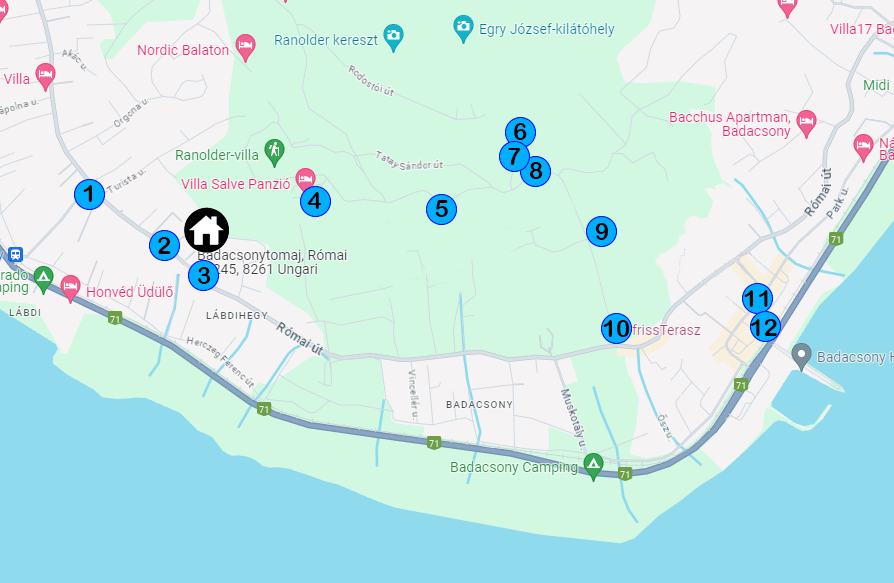
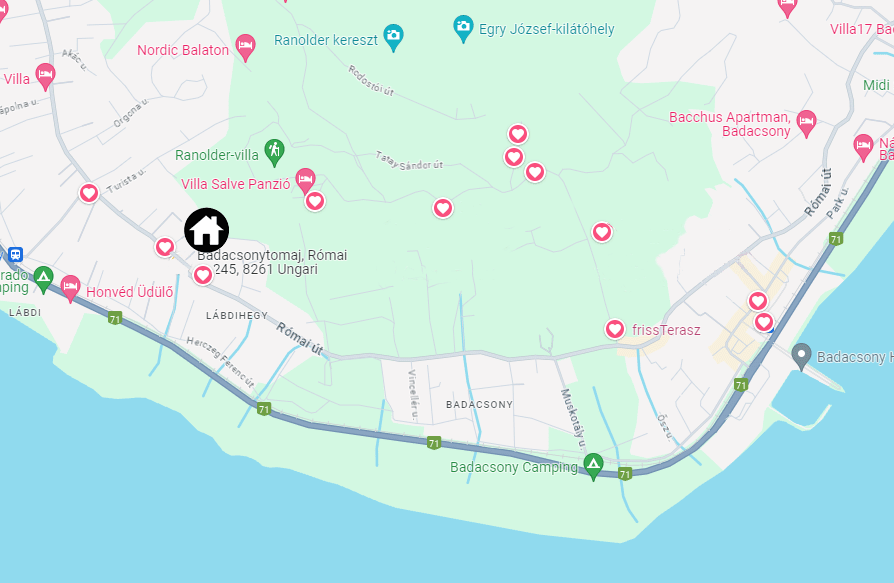
test of interactive map picture

diff --git a/src/views/OurFavourites.vue b/src/views/OurFavourites.vue
@@ -4,60 +4,72 @@
       <h3>{{ $t('favourites.introTitle') }}</h3>
       <p>{{ $t('favourites.introText') }}</p>
     </section>
-    <section>
-      <img src="/FAVMAP.png" alt="Map of Favourite Spots" class="favourites-map-image">
+    <section class="map-section">
+      <div class="map-container">
+        <img src="/FAVMAP.png" alt="Map of Favourite Spots" class="favourites-map-image">
+        <div class="map-number" @click="showInfo(1)">1</div>
+        <div class="map-number" @click="showInfo(2)">2</div>
+        <div class="map-number" @click="showInfo(3)">3</div>
+        <div class="map-number" @click="showInfo(4)">4</div>
+        <div class="map-number" @click="showInfo(5)">5</div>
+        <div class="map-number" @click="showInfo(6)">6</div>
+        <div class="map-number" @click="showInfo(7)">7</div>
+        <div class="map-number" @click="showInfo(8)">8</div>
+        <div class="map-number" @click="showInfo(9)">9</div>
+        <div class="map-number" @click="showInfo(10)">10</div>
+        <div class="map-number" @click="showInfo(11)">11</div>
+        <div class="map-number" @click="showInfo(12)">12</div>
+      </div>
     </section>
     <section class="list-section">
-      <ul class="favourites-list">
-        <li>
-          <h3>{{ $t('favourites.bar1Title') }}</h3>
-          <p>{{ $t('favourites.bar1Description') }}</p>
-        </li>
-        <li>
-          <h3>{{ $t('favourites.bar2Title') }}</h3>
-          <p>{{ $t('favourites.bar2Description') }}</p>
-        </li>
-        <li>
-          <h3>{{ $t('favourites.bar3Title') }}</h3>
-          <p>{{ $t('favourites.bar3Description') }}</p>
-        </li>
-        <li>
-          <h3>{{ $t('favourites.bar4Title') }}</h3>
-          <p>{{ $t('favourites.bar4Description') }}</p>
-        </li>
-        <li>
-          <h3>{{ $t('favourites.bar5Title') }}</h3>
-          <p>{{ $t('favourites.bar5Description') }}</p>
-        </li>
-        <li>
-          <h3>{{ $t('favourites.bar6Title') }}</h3>
-          <p>{{ $t('favourites.bar6Description') }}</p>
-        </li>
-        <li>
-          <h3>{{ $t('favourites.bar7Title') }}</h3>
-          <p>{{ $t('favourites.bar7Description') }}</p>
-        </li>
-        <li>
-          <h3>{{ $t('favourites.bar8Title') }}</h3>
-          <p>{{ $t('favourites.bar8Description') }}</p>
-        </li>
-        <li>
-          <h3>{{ $t('favourites.bar9Title') }}</h3>
-          <p>{{ $t('favourites.bar9Description') }}</p>
-        </li>
-        <li>
-          <h3>{{ $t('favourites.bar10Title') }}</h3>
-          <p>{{ $t('favourites.bar10Description') }}</p>
-        </li>
-        <li>
-          <h3>{{ $t('favourites.bar11Title') }}</h3>
-          <p>{{ $t('favourites.bar11Description') }}</p>
-        </li>
-        <li>
-          <h3>{{ $t('favourites.bar12Title') }}</h3>
-          <p>{{ $t('favourites.bar12Description') }}</p>
-        </li>
-      </ul>
+      <div v-if="selectedBar === 1">
+        <h3>{{ $t('favourites.bar1Title') }}</h3>
+        <p>{{ $t('favourites.bar1Description') }}</p>
+      </div>
+      <div v-if="selectedBar === 2">
+        <h3>{{ $t('favourites.bar2Title') }}</h3>
+        <p>{{ $t('favourites.bar2Description') }}</p>
+      </div>
+      <div v-if="selectedBar === 3">
+        <h3>{{ $t('favourites.bar3Title') }}</h3>
+        <p>{{ $t('favourites.bar3Description') }}</p>
+      </div>
+      <div v-if="selectedBar === 4">
+        <h3>{{ $t('favourites.bar4Title') }}</h3>
+        <p>{{ $t('favourites.bar4Description') }}</p>
+      </div>
+      <div v-if="selectedBar === 5">
+        <h3>{{ $t('favourites.bar5Title') }}</h3>
+        <p>{{ $t('favourites.bar5Description') }}</p>
+      </div>
+      <div v-if="selectedBar === 6">
+        <h3>{{ $t('favourites.bar6Title') }}</h3>
+        <p>{{ $t('favourites.bar6Description') }}</p>
+      </div>
+      <div v-if="selectedBar === 7">
+        <h3>{{ $t('favourites.bar7Title') }}</h3>
+        <p>{{ $t('favourites.bar7Description') }}</p>
+      </div>
+      <div v-if="selectedBar === 8">
+        <h3>{{ $t('favourites.bar8Title') }}</h3>
+        <p>{{ $t('favourites.bar8Description') }}</p>
+      </div>
+      <div v-if="selectedBar === 9">
+        <h3>{{ $t('favourites.bar9Title') }}</h3>
+        <p>{{ $t('favourites.bar9Description') }}</p>
+      </div>
+      <div v-if="selectedBar === 10">
+        <h3>{{ $t('favourites.bar10Title') }}</h3>
+        <p>{{ $t('favourites.bar10Description') }}</p>
+      </div>
+      <div v-if="selectedBar === 11">
+        <h3>{{ $t('favourites.bar11Title') }}</h3>
+        <p>{{ $t('favourites.bar11Description') }}</p>
+      </div>
+      <div v-if="selectedBar === 12">
+        <h3>{{ $t('favourites.bar12Title') }}</h3>
+        <p>{{ $t('favourites.bar12Description') }}</p>
+      </div>
     </section>
   </div>
 </template>
@@ -65,10 +77,16 @@
 
 <script>
 export default {
-  name: 'OurFavourites'
-}
+  name: 'OurFavourites',
+  data() {
+    return {
+      selectedBar: null
+    };
+  },
+  methods: {
+    showInfo(barNumber) {
+      this.selectedBar = barNumber;
+    }
+  }
+};
 </script>
-
-<style scoped>
-
-</style>

diff --git a/src/assets/desktop.css b/src/assets/desktop.css
@@ -183,28 +183,116 @@
     .page-heading {
         text-align: center;
     }
+
+    .intro-section,
+    .list-section {
+        margin: 2rem 0;
+        text-align: center;
+    }
+
+    .favourites-map-image {
+        width: 100%;
+        height: auto;
+        display: block;
+        margin: 0 auto;
+    }
+
+    .map-container {
+        position: relative;
+    }
+
+    .map-number {
+        position: absolute;
+        width: 2.3vw;
+        height: 2.3vw;
+        background-color: #49d8dc; /* Solid white background */
+        border-radius: 50%;
+        text-align: center;
+        line-height: 2.3vw;
+        cursor: pointer;
+        font-weight: bold;
+        border: 1px solid #000; /* Optional: Add a border for better visibility */
+        transform: translate(-50%, -50%);
+    }
+
+    .map-number:nth-of-type(1) {
+        top: 33%;
+        left: 10%;
+    }
+
+    .map-number:nth-of-type(2) {
+        top: 42%;
+        left: 18%;
+    }
+
+    .map-number:nth-of-type(3) {
+        top: 47%;
+        left: 23%;
+    }
+
+    .map-number:nth-of-type(4) {
+        top: 34.5%;
+        left: 35.5%;
+    }
+
+    .map-number:nth-of-type(5) {
+        top: 35.5%;
+        left: 49.5%;
+    }
+
+    .map-number:nth-of-type(6) {
+        top: 23%;
+        left: 58.5%;
+    }
+
+    .map-number:nth-of-type(7) {
+        top: 27%;
+        left: 57%;
+    }
+
+    .map-number:nth-of-type(8) {
+        top: 29%;
+        left: 60%;
+    }
+
+    .map-number:nth-of-type(9) {
+        top: 39.5%;
+        left: 67.5%;
+    }
+
+    .map-number:nth-of-type(10) {
+        top: 56%;
+        left: 69%;
+    }
+
+    .map-number:nth-of-type(11) {
+        top: 51%;
+        left: 85%;
+    }
+
+    .map-number:nth-of-type(12) {
+        top: 56%;
+        left: 85.5%;
+    }
+
     .favourites-list {
         list-style: none;
         padding: 0;
-    }
-
-    .favourites-list li {
-        margin: 1rem 0;
         text-align: left;
     }
 
-    .favourites-list h4 {
+    .favourites-list div {
+        margin: 1rem 0;
+    }
+
+    .favourites-list h3 {
         margin: 0.5rem 0;
+        font-size: 1.5rem;
     }
 
     .favourites-list p {
         margin: 0;
         color: #666;
-    }
-    .intro-section,
-    .list-section {
-        margin: 2rem 0;
-        text-align: center;
     }
 
 }

diff --git a/src/assets/mobile.css b/src/assets/mobile.css
@@ -160,4 +160,101 @@
         color: #666;
     }
 
+    .intro-section,
+    .list-section {
+        margin: 2rem 0;
+        text-align: center;
+    }
+    .list-section h3{
+        margin-bottom: 1rem;
+    }
+
+    .favourites-map-image {
+        width: 100%;
+        height: auto;
+        display: block;
+        margin: 0 auto;
+    }
+
+    .map-container {
+        position: relative;
+    }
+
+    .map-number {
+        position: absolute;
+        width: 4vw;
+        height: 4vw;
+        background-color: #49d8dc; /* Solid white background */
+        border-radius: 50%;
+        text-align: center;
+        line-height: 4vw;
+        cursor: pointer;
+        border: 1px solid #000; /* Optional: Add a border for better visibility */
+        transform: translate(-50%, -50%);
+        font-size: 9px;
+        font-weight: bold;
+    }
+
+    .map-number:nth-of-type(1) {
+        top: 33%;
+        left: 10%;
+    }
+
+    .map-number:nth-of-type(2) {
+        top: 42%;
+        left: 18%;
+    }
+
+    .map-number:nth-of-type(3) {
+        top: 47%;
+        left: 23%;
+    }
+
+    .map-number:nth-of-type(4) {
+        top: 34.5%;
+        left: 35.5%;
+    }
+
+    .map-number:nth-of-type(5) {
+        top: 35.5%;
+        left: 49.5%;
+    }
+
+    .map-number:nth-of-type(6) {
+        top: 23%;
+        left: 58.5%;
+    }
+
+    .map-number:nth-of-type(7) {
+        top: 27%;
+        left: 57%;
+    }
+
+    .map-number:nth-of-type(8) {
+        top: 29%;
+        left: 60%;
+    }
+
+    .map-number:nth-of-type(9) {
+        top: 39.5%;
+        left: 67.5%;
+    }
+
+    .map-number:nth-of-type(10) {
+        top: 56%;
+        left: 69%;
+    }
+
+    .map-number:nth-of-type(11) {
+        top: 50.5%;
+        left: 85%;
+    }
+
+    .map-number:nth-of-type(12) {
+        top: 56%;
+        left: 85.5%;
+    }
+
+
+
 }
